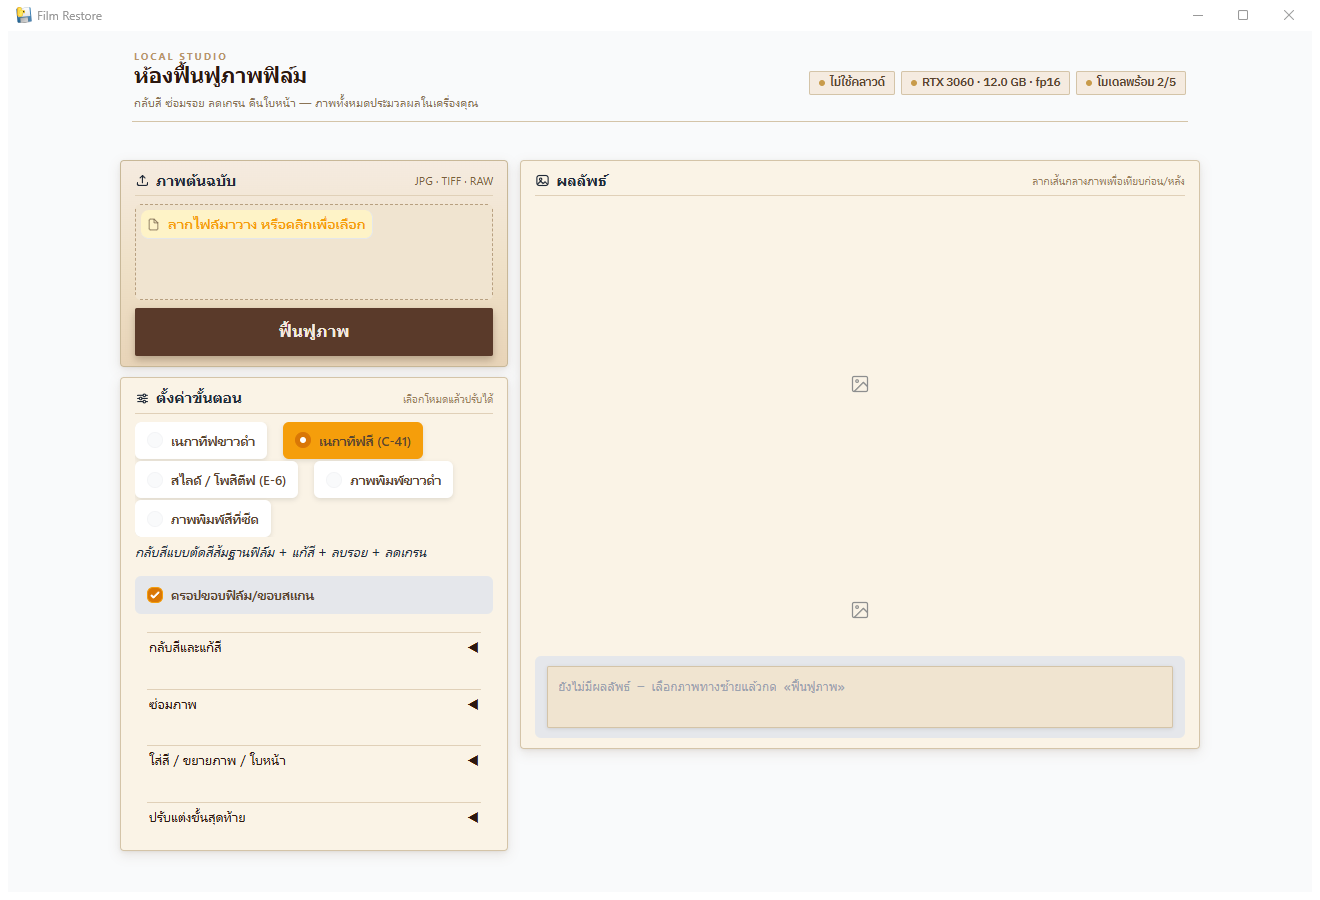
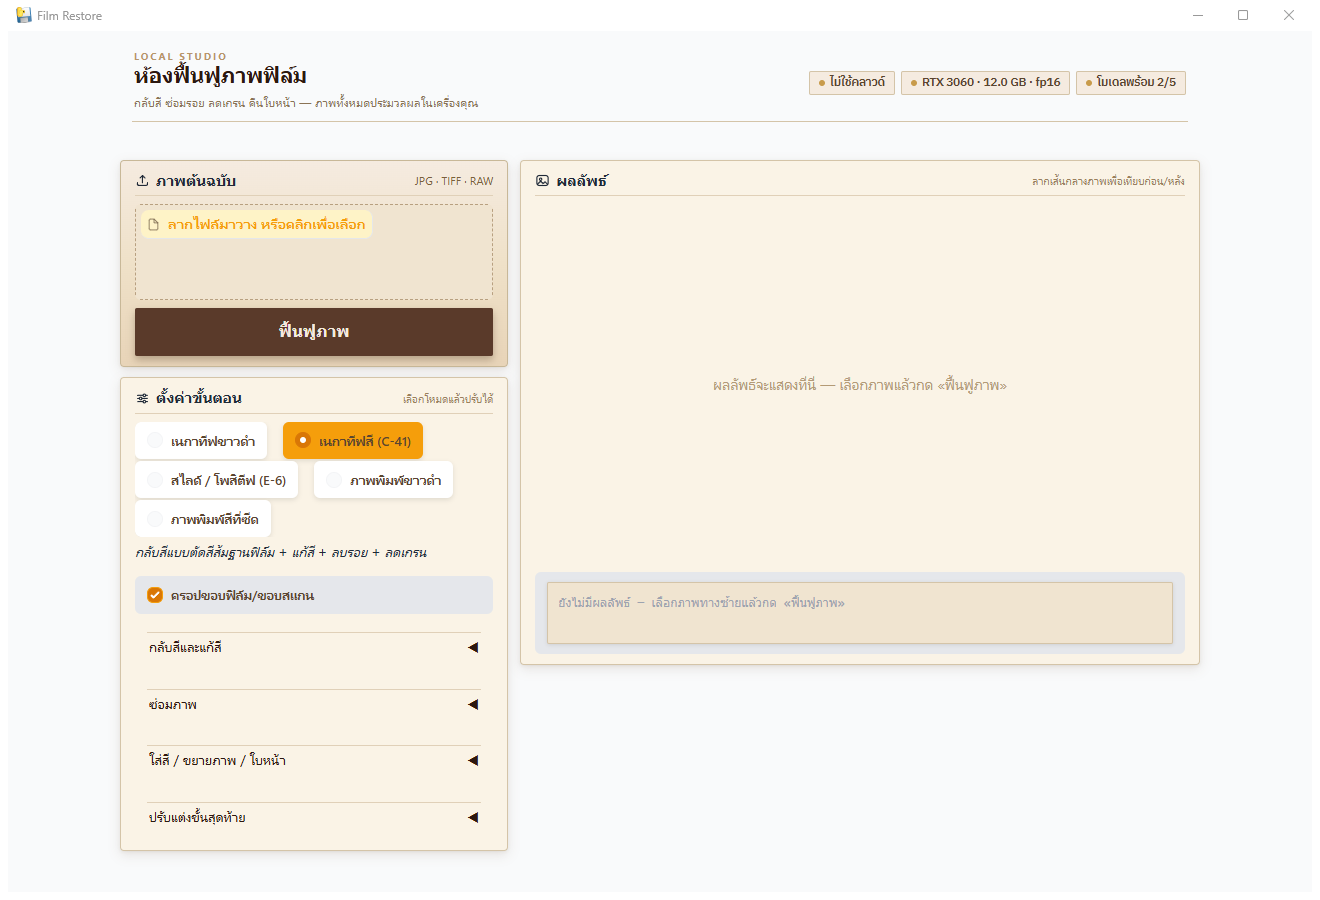
UI: เก็บรายละเอียดหน้าให้เรียบร้อย
- ช่องผลลัพธ์ตอนว่าง: แสดงคำใบ้กลางกรอบแทนไอคอน placeholder จาง ๆ
- แถบผลแต่ละขั้นซ่อนจนกว่าจะมีผลจริง และแสดงครบ 8 ช่อง (ไม่ถูกตัดขอบ)
- ซ่อนสกรอลบาร์ของสไลเดอร์/แกลเลอรี
- ทดสอบ flow จริงในหน้าต่าง 1320x900: อัปโหลด -> กดฟื้นฟู -> ได้ผล 1536x1024
  (สไลเดอร์มีภาพก่อน/หลัง, แกลเลอรี 7 ขั้น, log สรุปครบ) ไม่มี scroll
- อัปเดตสกรีนช็อตจาก .exe ตัวล่าสุด

Changed region(s): [[0.4038, 0.7156, 0.9008, 0.84], [0.4038, 0.6533, 0.6523, 0.6844], [0.528, 0.4044, 0.7455, 0.4356]]

diff --git a/backend/ui.py b/backend/ui.py
@@ -210,6 +210,28 @@ body { background: #f5ebe0 !important; }
   overflow: hidden;
   background: #f0e4d0 !important;
 }
+/* ตอนยังไม่มีผลลัพธ์: ซ่อนไอคอนจาง ๆ แล้วเขียนคำใบ้กลางกรอบแทน */
+.fr-card--compare { position: relative !important; }
+.fr-card--compare:not(:has(img[src]))::after {
+  content: "ผลลัพธ์จะแสดงที่นี่ — เลือกภาพแล้วกด «ฟื้นฟูภาพ»";
+  position: absolute;
+  inset: 0;
+  display: flex;
+  align-items: center;
+  justify-content: center;
+  color: #b39a76;
+  font-size: .92rem;
+  letter-spacing: .01em;
+  pointer-events: none;
+}
+/* แถบผลแต่ละขั้นซ่อนไว้จนกว่าจะมีผลจริง */
+.fr-card--plus__gallery:not(:has(img[src])) { display: none !important; }
+.fr-card--plus__gallery ::-webkit-scrollbar { display: none !important; }
+.fr-card--plus__gallery .grid-wrap { overflow-x: hidden !important; }
+.fr-card .image-slider::-webkit-scrollbar { display: none !important; }
+/* ซ่อนไอคอน placeholder ของสไลเดอร์ตอนยังไม่มีภาพ (ใช้ข้อความของเราแทน) */
+.fr-card--compare .empty { background: transparent !important; }
+.fr-card--compare .empty .icon { display: none !important; }
 .fr-card .gallery-item { border-radius: 2px !important; border: 1px solid #d4c4a8 !important; }
 .fr-card .caption { font-size: .7rem !important; color: #7a6344 !important; }
 .fr-log textarea {
@@ -446,8 +468,8 @@ def build_ui(info: gpu_mod.GPUInfo | None = None):
                     )
                     stages = gr.Gallery(
                         label="",
-                        columns=6,
-                        height=76,
+                        columns=8,
+                        height=70,
                         object_fit="cover",
                         container=False,
                         elem_classes="fr-card--plus__gallery",
